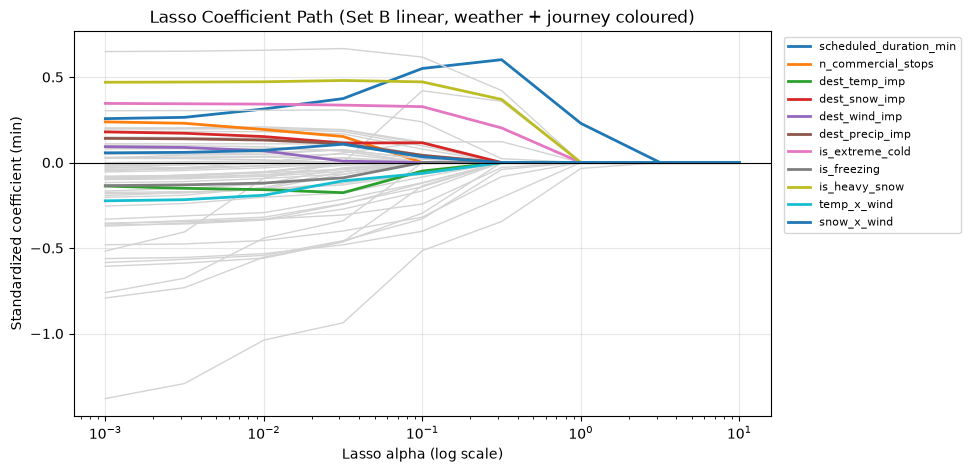
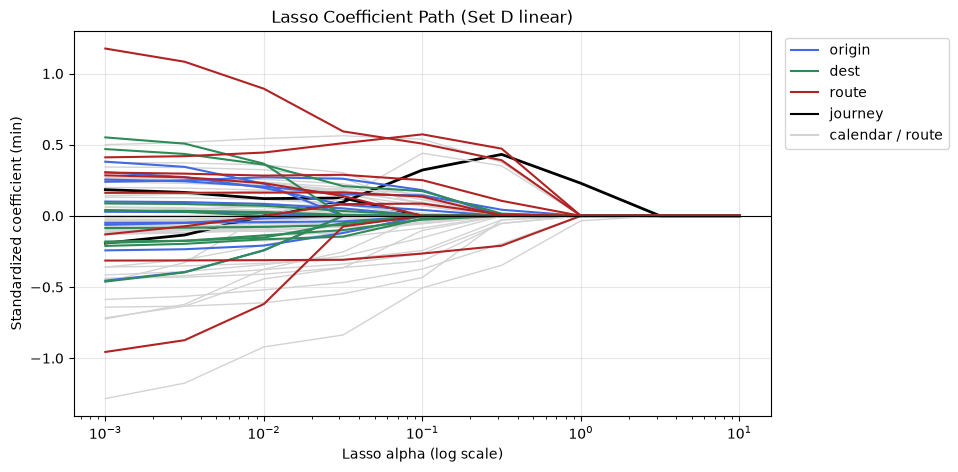
Origin and route weather sets

diff --git a/notebook_regression_v3.py b/notebook_regression_v3.py
@@ -74,21 +74,27 @@ def _(extract_months, os, pd):
     _arrived["dow_cat"] = _arrived["day_of_week"].astype(int)
     _arrived["hour_cat"] = _arrived["hour_clean"].astype(int)
 
-    _top_corrs = _arrived["corridor"].value_counts().head(10).index
+    # only use training years for anything learned from the data (corridors, medians)
+    _is_train = _arrived["year"] < 2024
+    _top_corrs = _arrived.loc[_is_train, "corridor"].value_counts().head(10).index
     _arrived["corridor_clean"] = _arrived["corridor"].where(_arrived["corridor"].isin(_top_corrs), "Other")
 
-    _arrived["dest_temp_imp"] = _arrived["dest_temp"].fillna(_arrived["dest_temp"].median())
-    _arrived["dest_snow_imp"] = _arrived["dest_snow_depth"].fillna(0.0)
-    _arrived["dest_wind_imp"] = _arrived["dest_wind"].fillna(_arrived["dest_wind"].median())
-    _arrived["dest_precip_imp"] = _arrived["dest_precip_intensity"].fillna(0.0)
+    for _p in ["origin", "dest"]:
+        _core = [f"{_p}_temp", f"{_p}_snow_depth", f"{_p}_wind", f"{_p}_precip_intensity"]
+        _arrived[f"{_p}_wx_missing"] = _arrived[_core].isna().any(axis=1).astype(int)
+        for _c in _core:
+            _arrived[_c + "_imp"] = _arrived[_c].fillna(_arrived.loc[_is_train, _c].median())
+        _arrived[f"{_p}_is_extreme_cold"] = (_arrived[f"{_p}_temp_imp"] < -15).astype(int)
+        _arrived[f"{_p}_is_freezing"] = _arrived[f"{_p}_temp_imp"].between(-2, 2).astype(int)
+        _arrived[f"{_p}_is_heavy_snow"] = (_arrived[f"{_p}_snow_depth_imp"] > 20).astype(int)
+        _arrived[f"{_p}_temp_x_wind"] = _arrived[f"{_p}_temp_imp"] * _arrived[f"{_p}_wind_imp"]
+        _arrived[f"{_p}_snow_x_wind"] = _arrived[f"{_p}_snow_depth_imp"] * _arrived[f"{_p}_wind_imp"]
 
-    _arrived["is_extreme_cold"] = (_arrived["dest_temp_imp"] < -15).astype(int)
-    _arrived["is_freezing"] = (
-        (_arrived["dest_temp_imp"] >= -2) & (_arrived["dest_temp_imp"] <= 2)
-    ).astype(int)
-    _arrived["is_heavy_snow"] = (_arrived["dest_snow_imp"] > 20).astype(int)
-    _arrived["temp_x_wind"] = _arrived["dest_temp_imp"] * _arrived["dest_wind_imp"]
-    _arrived["snow_x_wind"] = _arrived["dest_snow_imp"] * _arrived["dest_wind_imp"]
+    _route_raw = ["route_min_temp", "route_max_snow_depth", "route_max_wind", "route_max_gust", "route_max_precip_intensity", "route_min_visibility"]
+    for _c in _route_raw:
+        _arrived[_c + "_imp"] = _arrived[_c].fillna(_arrived.loc[_is_train, _c].median())
+    _arrived["route_is_extreme_cold"] = (_arrived["route_min_temp_imp"] < -15).astype(int)
+    _arrived["route_is_heavy_snow"] = (_arrived["route_max_snow_depth_imp"] > 20).astype(int)
 
     _encoded = pd.get_dummies(
         _arrived,
@@ -103,20 +109,25 @@ def _(extract_months, os, pd):
     # one-hot calendar only for linear models, is_winter / is_weekend would be collinear with the dummies
     feat_a_tree = ["departure_hour_local", "day_of_week", "month", "is_winter", "is_weekend"] + _journey + _route_cols
     feat_a_lin = _calendar_onehot + _journey + _route_cols
-    weather_cols = [
-        "dest_temp_imp",
-        "dest_snow_imp",
-        "dest_wind_imp",
-        "dest_precip_imp",
-        "is_extreme_cold",
-        "is_freezing",
-        "is_heavy_snow",
-        "temp_x_wind",
-        "snow_x_wind",
-    ]
-    feat_b_tree = feat_a_tree + weather_cols
-    feat_b_lin = feat_a_lin + weather_cols
-    print("features: A tree", len(feat_a_tree), "| A linear", len(feat_a_lin), "| weather", len(weather_cols))
+    _wx_names = ["temp_imp", "snow_depth_imp", "wind_imp", "precip_intensity_imp", "is_extreme_cold", "is_freezing", "is_heavy_snow", "temp_x_wind", "snow_x_wind", "wx_missing"]
+    _origin_wx = [f"origin_{n}" for n in _wx_names]
+    _dest_wx = [f"dest_{n}" for n in _wx_names]
+    _route_wx = [c + "_imp" for c in _route_raw] + ["route_is_extreme_cold", "route_is_heavy_snow"]
+    weather_groups = {"origin": _origin_wx, "dest": _dest_wx, "route": _route_wx}
+
+    _set_names = {
+        "A": "Set A (Calendar + Route + Journey)",
+        "B": "Set B (+ Destination Weather)",
+        "C": "Set C (+ Origin Weather)",
+        "D": "Set D (+ All Weather)",
+    }
+    _extra = {"A": [], "B": _dest_wx, "C": _origin_wx, "D": _origin_wx + _dest_wx + _route_wx}
+    feature_sets = {
+        "lin": [(_set_names[k], feat_a_lin + _extra[k]) for k in _extra],
+        "tree": [(_set_names[k], feat_a_tree + _extra[k]) for k in _extra],
+    }
+    feat_d_lin = feat_a_lin + _extra["D"]
+    print("features: A tree", len(feat_a_tree), "| A linear", len(feat_a_lin), "| D linear", len(feat_d_lin))
 
     train_df = _encoded[_encoded["year"] < 2024]
     test_df = _encoded[_encoded["year"] == 2024]
@@ -126,13 +137,11 @@ def _(extract_months, os, pd):
     y_test = test_df["delay_minutes"]
     y_test_late = test_df["is_late"].astype(int)
     return (
-        feat_a_lin,
-        feat_a_tree,
-        feat_b_lin,
-        feat_b_tree,
+        feat_d_lin,
+        feature_sets,
         test_df,
         train_df,
-        weather_cols,
+        weather_groups,
         y_test,
         y_test_late,
         y_train,
@@ -144,7 +153,7 @@ def _(
     Lasso,
     Ridge,
     StandardScaler,
-    feat_b_lin,
+    feat_d_lin,
     make_pipeline,
     mean_absolute_error,
     np,
@@ -160,8 +169,8 @@ def _(
     _rows = []
     for _alpha in np.logspace(-1, 6, 8):
         _ridge = make_pipeline(StandardScaler(), Ridge(alpha=_alpha))
-        _ridge.fit(_fit[feat_b_lin], _y_fit)
-        _pred = _ridge.predict(_val[feat_b_lin])
+        _ridge.fit(_fit[feat_d_lin], _y_fit)
+        _pred = _ridge.predict(_val[feat_d_lin])
         _rows.append(
             {
                 "Model": "Ridge",
@@ -174,8 +183,8 @@ def _(
     _lasso_coefs = {}
     for _alpha in np.logspace(-3, 1, 9):
         _lasso = make_pipeline(StandardScaler(), Lasso(alpha=_alpha))
-        _lasso.fit(_fit[feat_b_lin], _y_fit)
-        _pred = _lasso.predict(_val[feat_b_lin])
+        _lasso.fit(_fit[feat_d_lin], _y_fit)
+        _pred = _lasso.predict(_val[feat_d_lin])
         _lasso_coefs[_alpha] = _lasso[-1].coef_
         _rows.append(
             {
@@ -191,7 +200,7 @@ def _(
 
     best_ridge_alpha = float(alpha_df[alpha_df["Model"] == "Ridge"].sort_values("Val RMSE").iloc[0]["alpha"])
     best_lasso_alpha = float(alpha_df[alpha_df["Model"] == "Lasso"].sort_values("Val RMSE").iloc[0]["alpha"])
-    lasso_path = pd.DataFrame(_lasso_coefs, index=feat_b_lin)
+    lasso_path = pd.DataFrame(_lasso_coefs, index=feat_d_lin)
     alpha_df
     return best_lasso_alpha, best_ridge_alpha, lasso_path
 
@@ -206,10 +215,7 @@ def _(
     accuracy_score,
     best_lasso_alpha,
     best_ridge_alpha,
-    feat_a_lin,
-    feat_a_tree,
-    feat_b_lin,
-    feat_b_tree,
+    feature_sets,
     make_pipeline,
     mean_absolute_error,
     np,
@@ -244,10 +250,6 @@ def _(
     ]
     test_preds = {}
 
-    _sets = {
-        "lin": [("Set A (Calendar + Route + Journey)", feat_a_lin), ("Set B (+ Weather)", feat_b_lin)],
-        "tree": [("Set A (Calendar + Route + Journey)", feat_a_tree), ("Set B (+ Weather)", feat_b_tree)],
-    }
     _models = [
         ("Linear Regression (OLS)", make_pipeline(StandardScaler(), LinearRegression()), "lin"),
         (f"Ridge (alpha={best_ridge_alpha:g})", make_pipeline(StandardScaler(), Ridge(alpha=best_ridge_alpha)), "lin"),
@@ -260,7 +262,7 @@ def _(
     ]
 
     for _model_name, _model, _kind in _models:
-        for _f_label, _f_cols in _sets[_kind]:
+        for _f_label, _f_cols in feature_sets[_kind]:
             _reg = _model
             _reg.fit(train_df[_f_cols], y_train)
             _pred = _reg.predict(test_df[_f_cols])
@@ -273,6 +275,22 @@ def _(
 def _(pd, reg_results):
     _results_df = pd.DataFrame(reg_results)
     _results_df.to_csv("outputs/it4b/model_comparison_results.csv", index=False)
+
+    _rows = []
+    for _model_name, _g in _results_df[_results_df["Feature Set"] != "None"].groupby("Model", sort=False):
+        _base = _g[_g["Feature Set"].str.startswith("Set A")].iloc[0]
+        for _, _r in _g[~_g["Feature Set"].str.startswith("Set A")].iterrows():
+            _rows.append(
+                {
+                    "Model": _model_name,
+                    "Compared to Set A": _r["Feature Set"],
+                    "dAUC": round(_r["ROC-AUC"] - _base["ROC-AUC"], 4),
+                    "dMAE": round(_r["MAE"] - _base["MAE"], 4),
+                    "dRMSE": round(_r["RMSE"] - _base["RMSE"], 4),
+                    "dR2": round(_r["R2"] - _base["R2"], 4),
+                }
+            )
+    pd.DataFrame(_rows).to_csv("outputs/it4b/weather_gain_summary.csv", index=False)
     _results_df
     return
 
@@ -285,9 +303,9 @@ def _(np, plt, test_preds, y_test):
 
     _fig, _axes = plt.subplots(1, 2, figsize=(12, 4.5), sharey=True)
     for _ax, (_model_name, _title) in zip(
-        _axes, [("Linear Regression (OLS)", "OLS (Set B)"), ("Random Forest Regressor (depth 8)", "Random Forest (Set B)")]
+        _axes, [("Linear Regression (OLS)", "OLS (Set D)"), ("Random Forest Regressor (depth 8)", "Random Forest (Set D)")]
     ):
-        _fitted = test_preds[(_model_name, "Set B (+ Weather)")][_idx]
+        _fitted = test_preds[(_model_name, "Set D (+ All Weather)")][_idx]
         _ax.scatter(_fitted, _y - _fitted, s=4, alpha=0.15, color="teal")
         _ax.axhline(0, color="red", linestyle="--", linewidth=1)
         _ax.set_title(f"Residuals vs Fitted: {_title}")
@@ -300,22 +318,52 @@ def _(np, plt, test_preds, y_test):
 
 
 @app.cell
-def _(lasso_path, np, plt, weather_cols):
+def _(lasso_path, np, pd, plt, weather_groups):
+    _colors = {"origin": "royalblue", "dest": "seagreen", "route": "firebrick"}
     _fig, _ax = plt.subplots(figsize=(9, 5))
     _alphas = np.array(lasso_path.columns, dtype=float)
     for _feat, _coefs in lasso_path.iterrows():
-        if _feat in weather_cols or _feat in ["scheduled_duration_min", "n_commercial_stops"]:
-            _ax.plot(_alphas, _coefs.to_numpy(), linewidth=2, label=_feat)
+        _group = [g for g, cols in weather_groups.items() if _feat in cols]
+        if _group:
+            _ax.plot(_alphas, _coefs.to_numpy(), linewidth=1.5, color=_colors[_group[0]])
+        elif _feat in ["scheduled_duration_min", "n_commercial_stops"]:
+            _ax.plot(_alphas, _coefs.to_numpy(), linewidth=2, color="black")
         else:
             _ax.plot(_alphas, _coefs.to_numpy(), color="lightgray", linewidth=1)
+    for _g, _c in list(_colors.items()) + [("journey", "black"), ("calendar / route", "lightgray")]:
+        _ax.plot([], [], color=_c, label=_g)
     _ax.set_xscale("log")
     _ax.axhline(0, color="black", linewidth=0.8)
     _ax.set_xlabel("Lasso alpha (log scale)")
     _ax.set_ylabel("Standardized coefficient (min)")
-    _ax.set_title("Lasso Coefficient Path (Set B linear, weather + journey coloured)")
-    _ax.legend(loc="upper left", bbox_to_anchor=(1.01, 1), fontsize=8)
+    _ax.set_title("Lasso Coefficient Path (Set D linear)")
+    _ax.legend(loc="upper left", bbox_to_anchor=(1.01, 1))
     _ax.grid(True, alpha=0.3)
     _fig.savefig("outputs/it4b/lasso_coefficient_path.png", bbox_inches="tight")
+
+    _survive = {}
+    for _feat, _coefs in lasso_path.iterrows():
+        _nonzero = [a for a, c in zip(_alphas, _coefs) if c != 0]
+        _survive[_feat] = max(_nonzero) if _nonzero else 0.0
+    _survive = pd.Series(_survive, name="largest_alpha_nonzero").sort_values(ascending=False)
+    _survive.to_csv("outputs/it4b/lasso_survival.csv")
+    _fig
+    return
+
+
+@app.cell
+def _(plt, train_df, weather_groups):
+    _cols = [c for c in weather_groups["origin"] + weather_groups["dest"] + weather_groups["route"] if c.endswith("_imp")]
+    _corr = train_df[_cols].corr().round(2)
+    _corr.to_csv("outputs/it4b/weather_correlation.csv")
+
+    _fig, _ax = plt.subplots(figsize=(10, 8))
+    _im = _ax.imshow(_corr.values, cmap="coolwarm", vmin=-1, vmax=1)
+    _ax.set_xticks(range(len(_cols)), _cols, rotation=90, fontsize=8)
+    _ax.set_yticks(range(len(_cols)), _cols, fontsize=8)
+    _fig.colorbar(_im)
+    _ax.set_title("Correlation of Weather Features (training years)")
+    _fig.savefig("outputs/it4b/weather_correlation.png", bbox_inches="tight")
     _fig
     return
 
